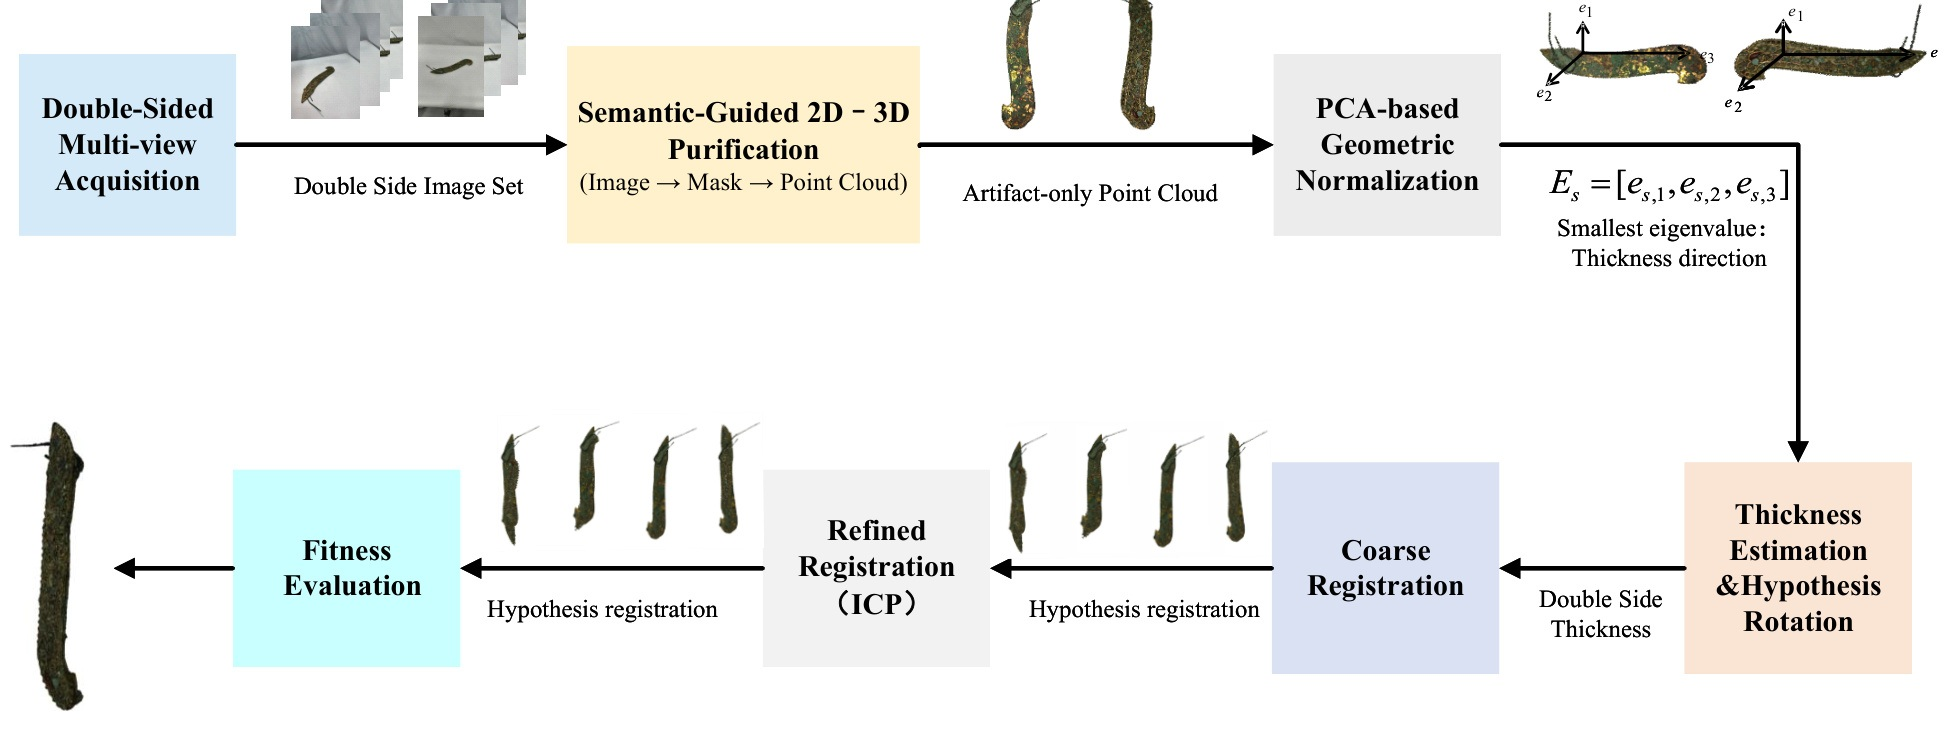
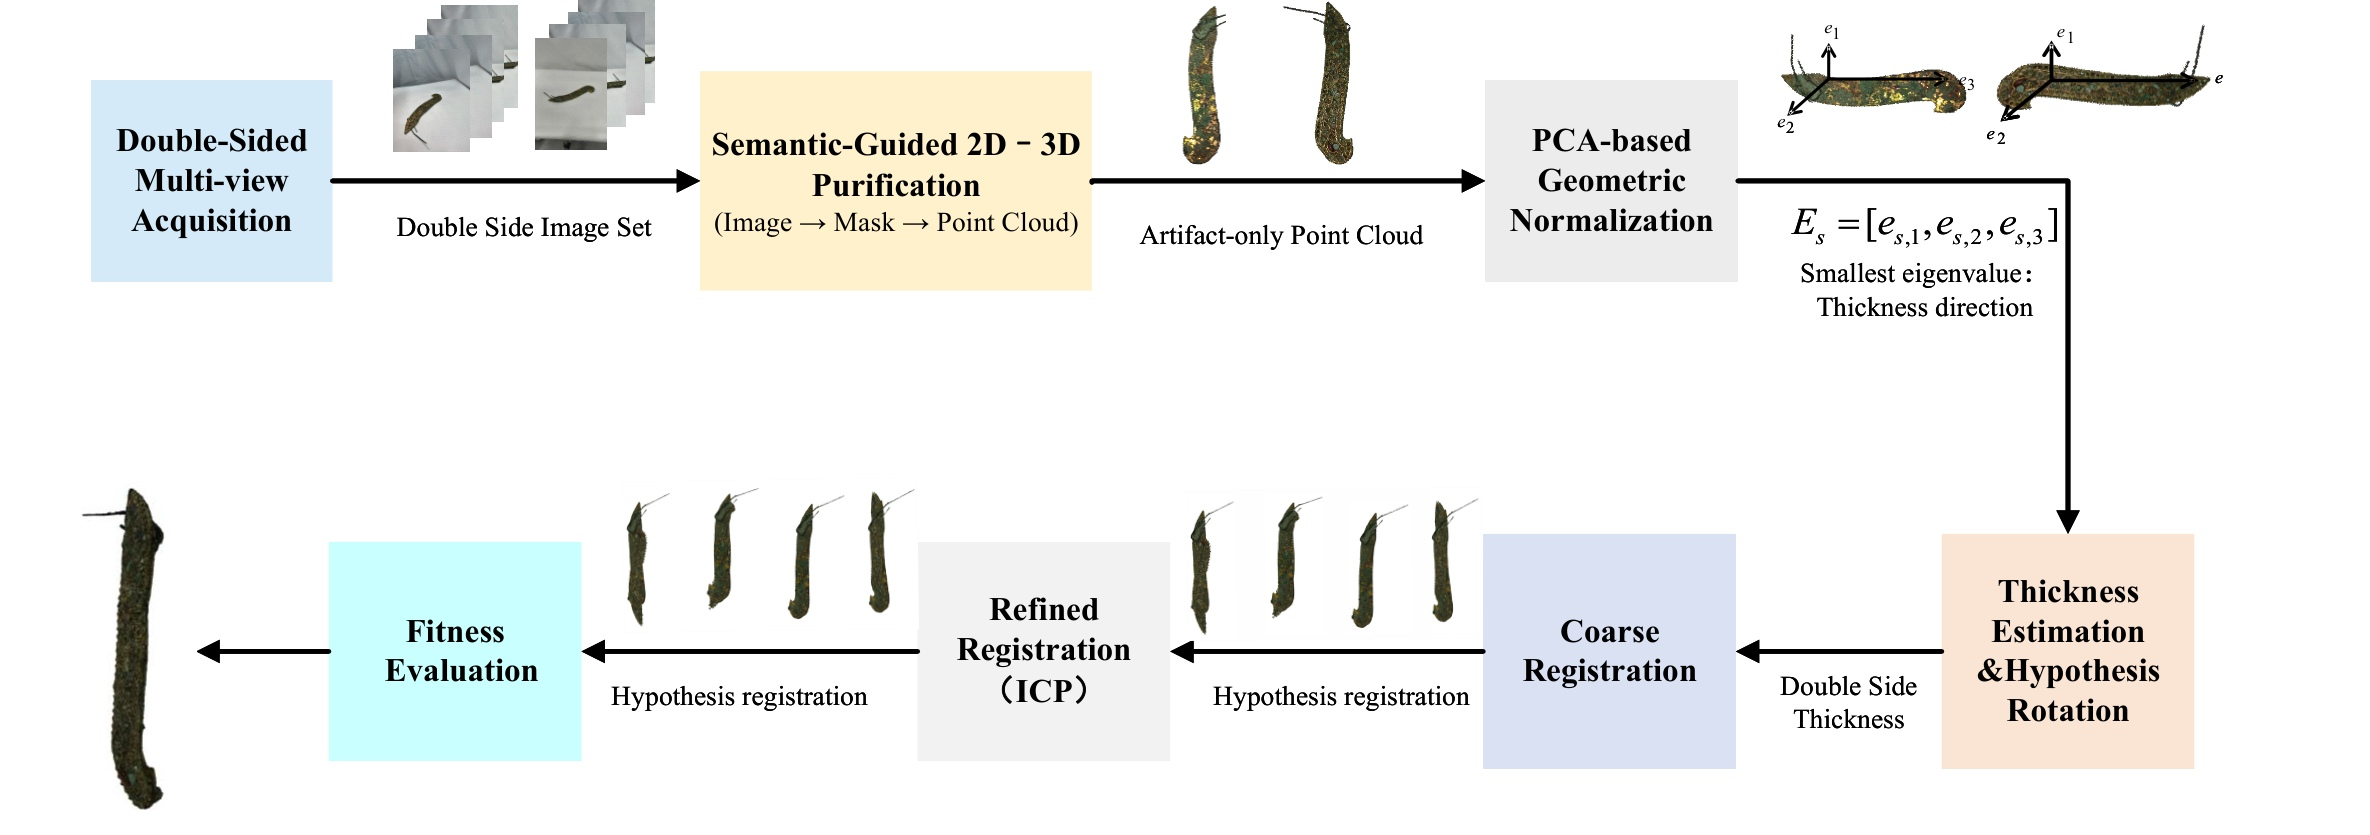
Refine method figures and README

Changed region(s): [[0.0, 0.0, 0.998, 0.3923], [0.4054, 0.6036, 0.998, 0.9355], [0.0, 0.5734, 0.3742, 0.9657]]

diff --git a/README.md b/README.md
@@ -34,21 +34,6 @@ The pipeline contains three main stages:
 2. **Geometric normalization**: use PCA to define canonical axes and estimate the artifact thickness direction.
 3. **Bidirectional registration**: evaluate rotation hypotheses, refine candidates with ICP, and select the geometry-consistent alignment.
 
-## Repository Contents
-
-```text
-.
-├── docs/                    # GitHub Pages project website
-│   ├── index.html
-│   └── assets/
-│       ├── figures/          # Method figures used by the project page
-│       └── videos/           # Result videos used by the project page
-├── clear_point.py
-├── convert_dense.py
-├── together_pointcloud.py
-└── third_party/
-```
-
 ---
 
 ## Environment Setup